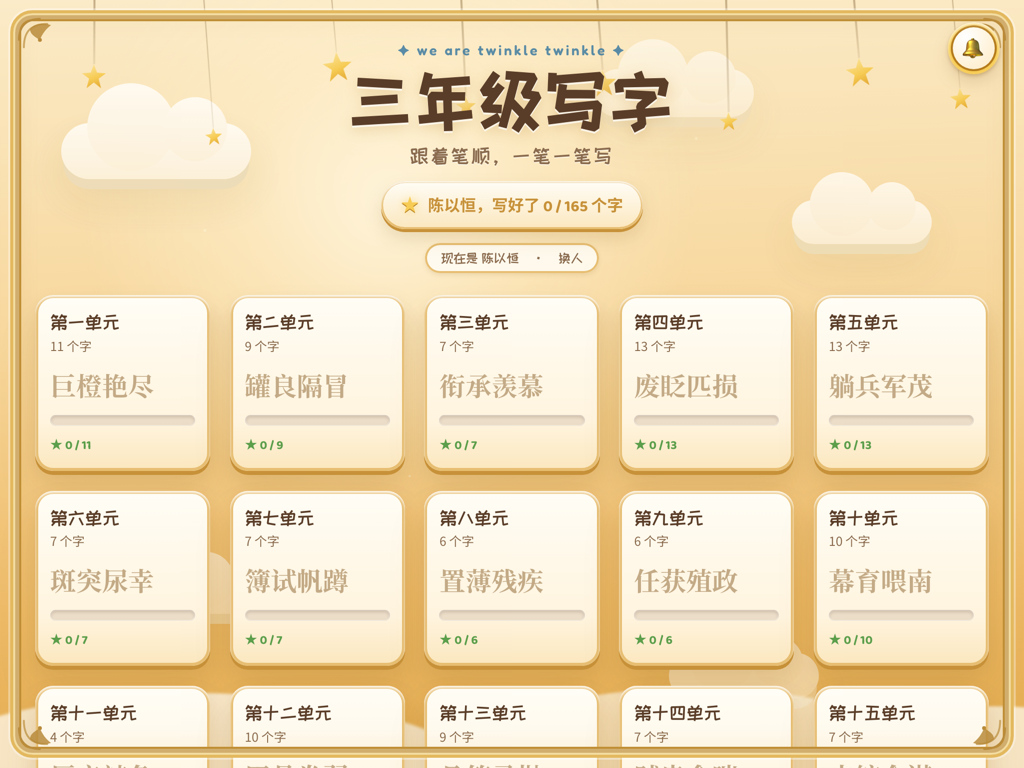
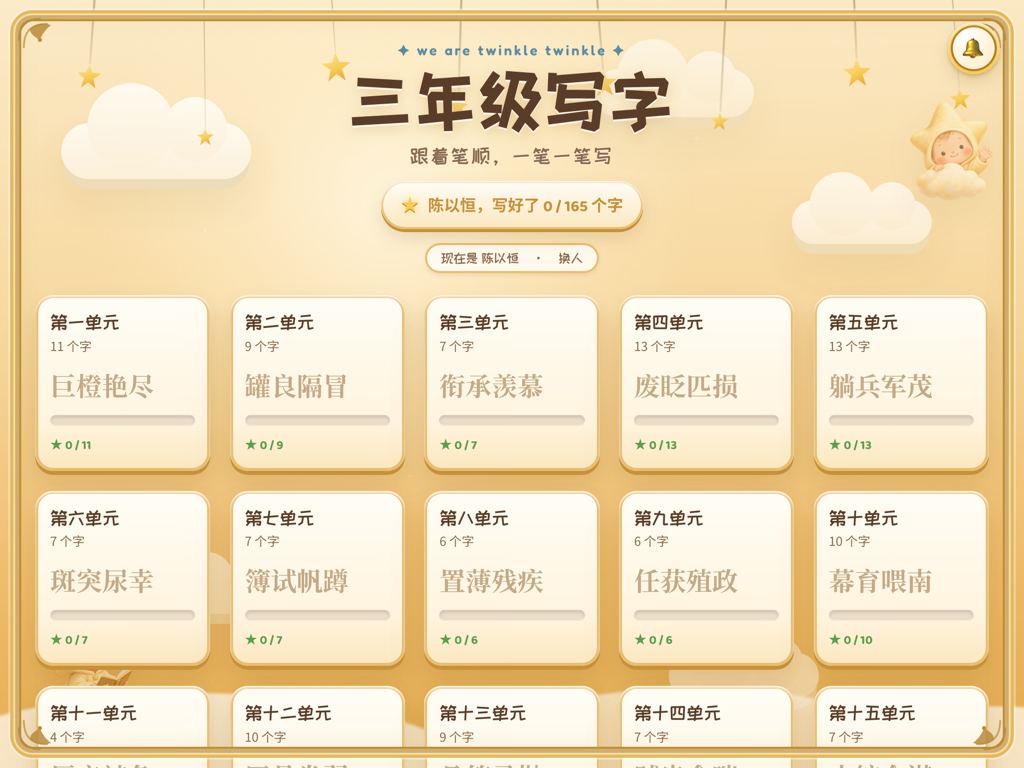
tahun3-bc-bishun v1.2：星星娃娃角色 + 更新缩略图
Claude-Session: https://claude.ai/code/session_01M8q444CefSTin7WE7ZSsEn

diff --git a/app.js b/app.js
@@ -238,17 +238,18 @@ const TOOLS = [
     type: "练习",
     stars: 0,
     creator: { name: "卢老师", initial: "卢" },
-    version: "1.1",
+    version: "1.2",
     changelog: [
+      { version: "1.2", date: "2026-09-10", note: "加原创星星娃娃角色：写对时从格子角落蹦出来举星欢呼（不挡字），首页/练习页有坐云看书、云后探头的静态布景" },
       { version: "1.1", date: "2026-09-10", note: "金星「棒」章移到田字格角外，写好的字完整露出；背景加厚（更多垂吊星星 + 云 + 星点）" },
       { version: "1.0", date: "2026-09-10", note: "首次上架" },
     ],
-    // 这 4 张是用 Playwright 实际操作 http://localhost 上的 tahun3-bc-bishun 截的真实画面（选名字页用示范名单，非真实学生；写一写那张是脚本真实描完整个字触发盖章）
+    // 这 4 张是用 Playwright 实际操作 https://tahun3-bc-bishun.vercel.app 截的真实画面（选名字页用示范名单，非真实学生；写一写那张是脚本真实描完整个字触发盖章 + 星星娃娃弹入）
     thumbnails: [
       { img: "assets/thumbs/tahun3-bc-bishun/1-names.png", label: "选名字：接班级名单，学生点自己的名字" },
       { img: "assets/thumbs/tahun3-bc-bishun/2-units.png", label: "选单元：20 个单元，进度看得见" },
       { img: "assets/thumbs/tahun3-bc-bishun/3-watch.png", label: "看一看：笔顺动画一笔一笔演示" },
-      { img: "assets/thumbs/tahun3-bc-bishun/4-done.png", label: "写一写：凭记忆写对，盖金星「棒」印章" },
+      { img: "assets/thumbs/tahun3-bc-bishun/4-done.png", label: "写一写：写对了星星娃娃举星欢呼，盖金星「棒」印章" },
     ],
     standards: [
       { curriculum: "KSSR Semakan 2017", unitCode: "3.0", objectiveCodes: ["3.1"] },
